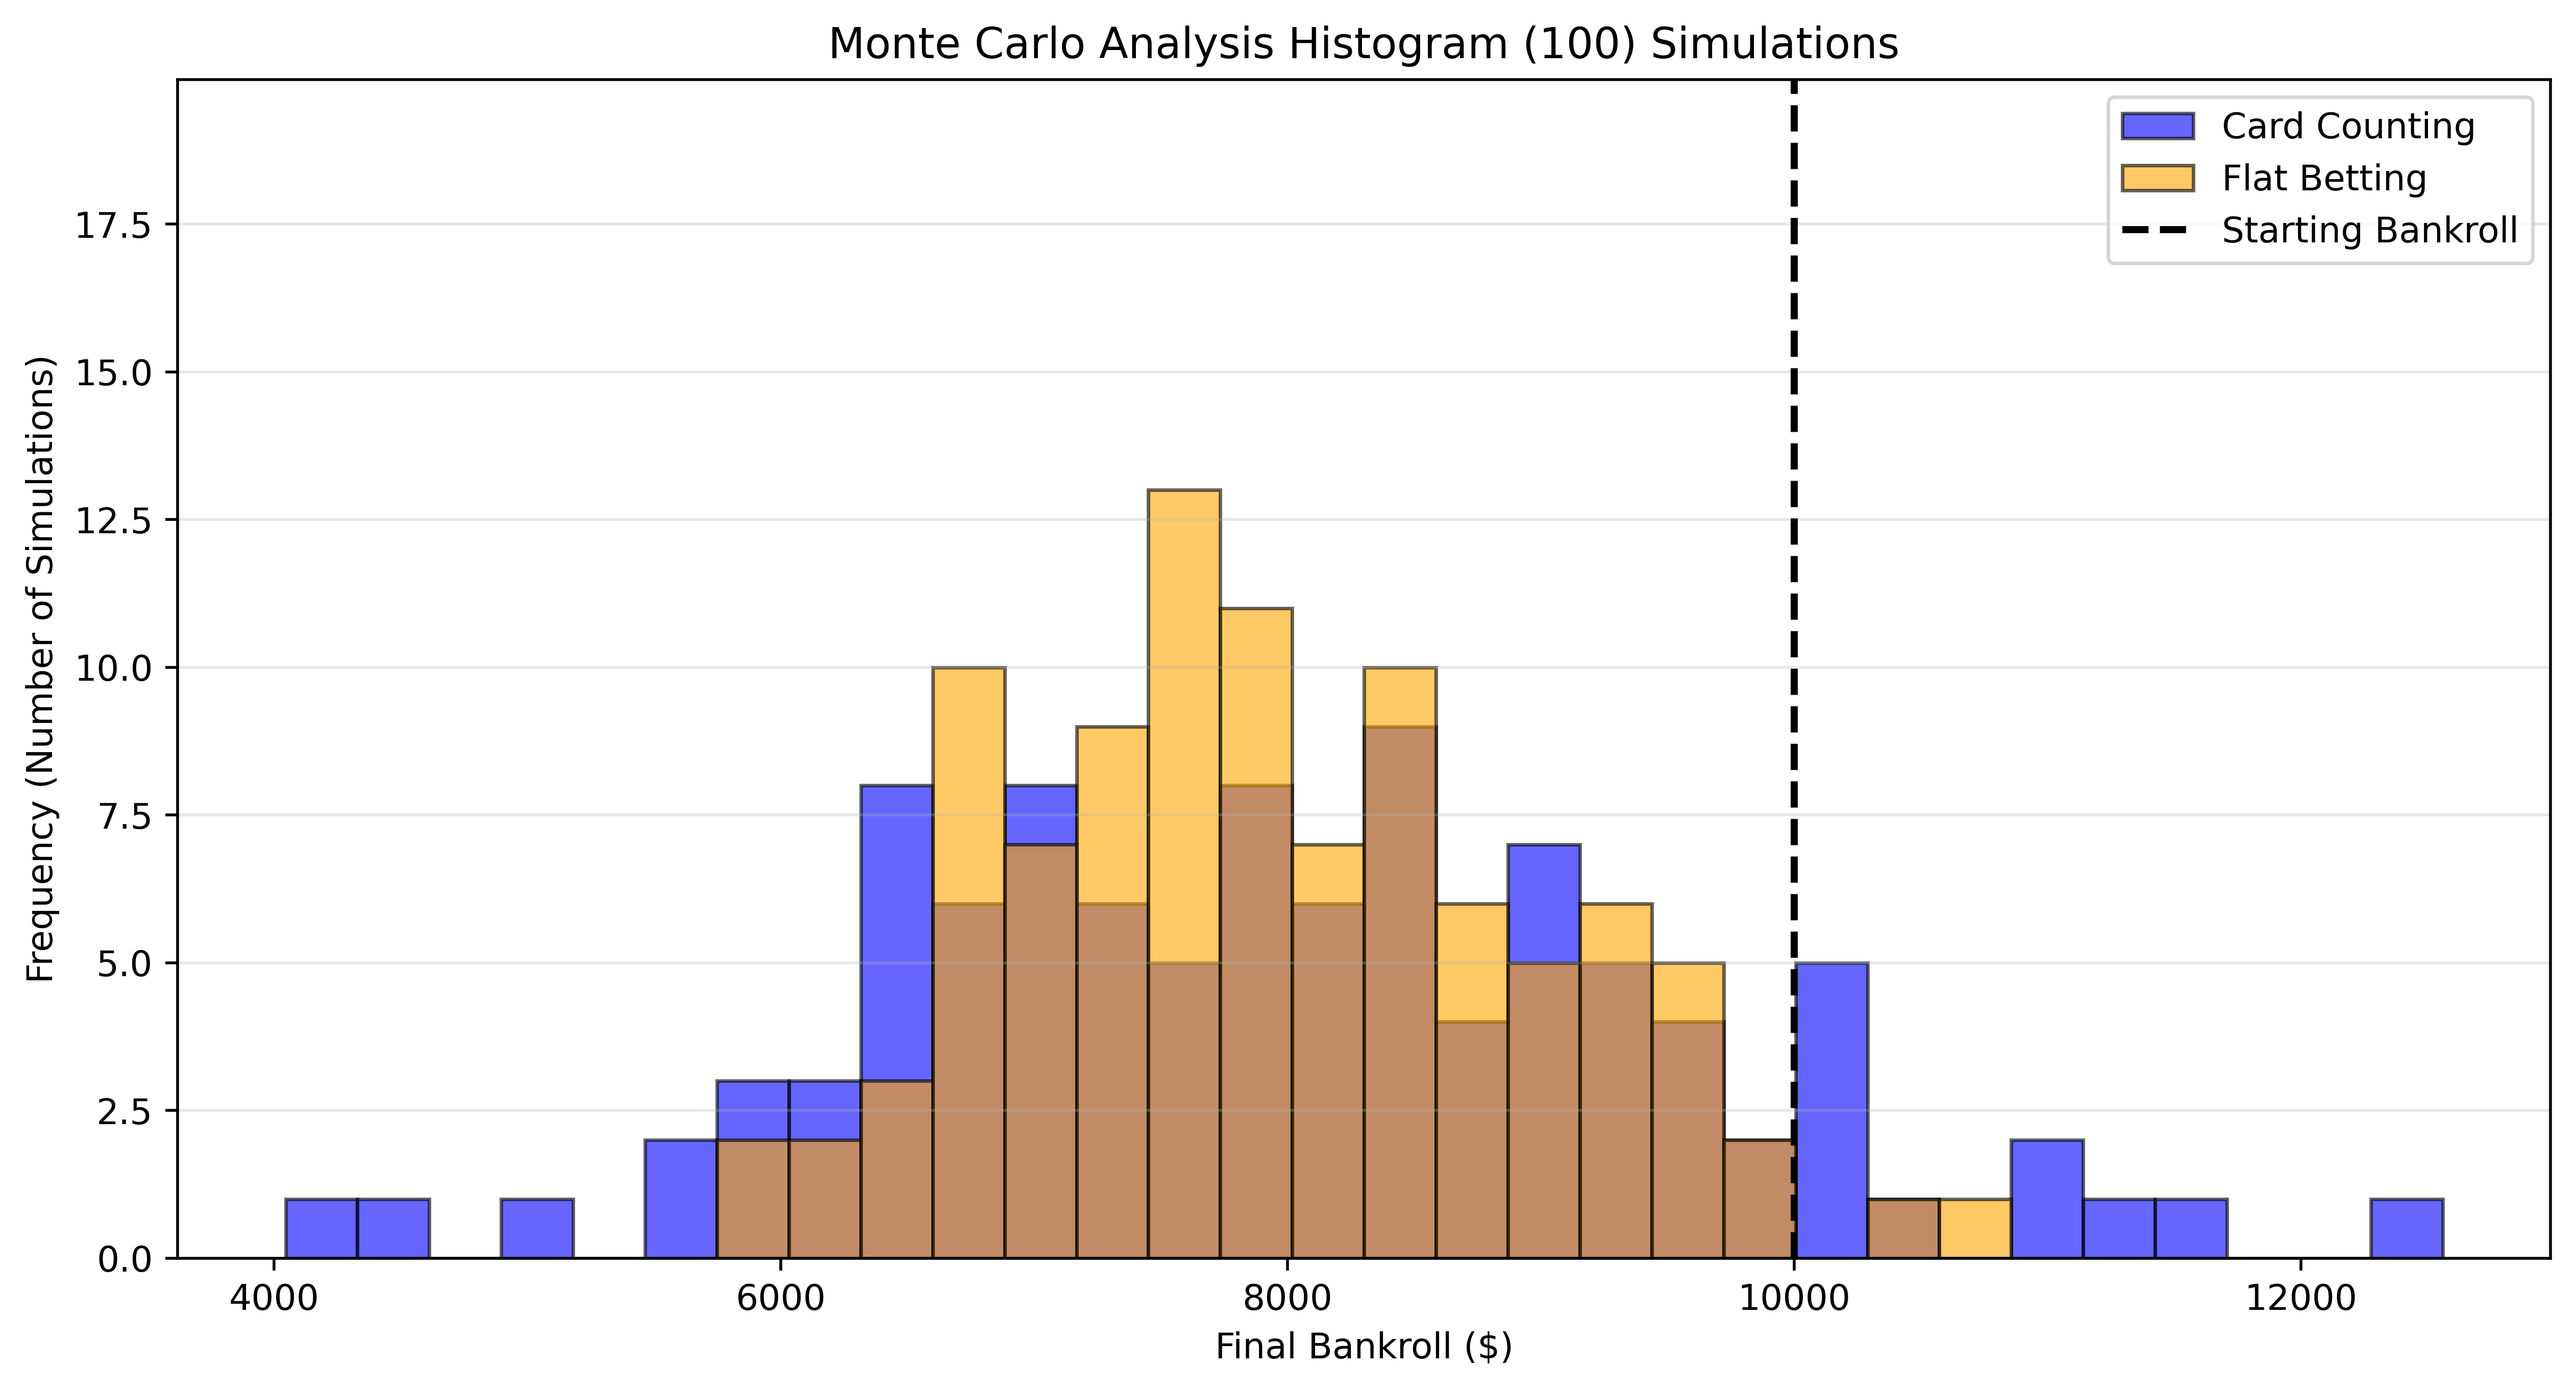
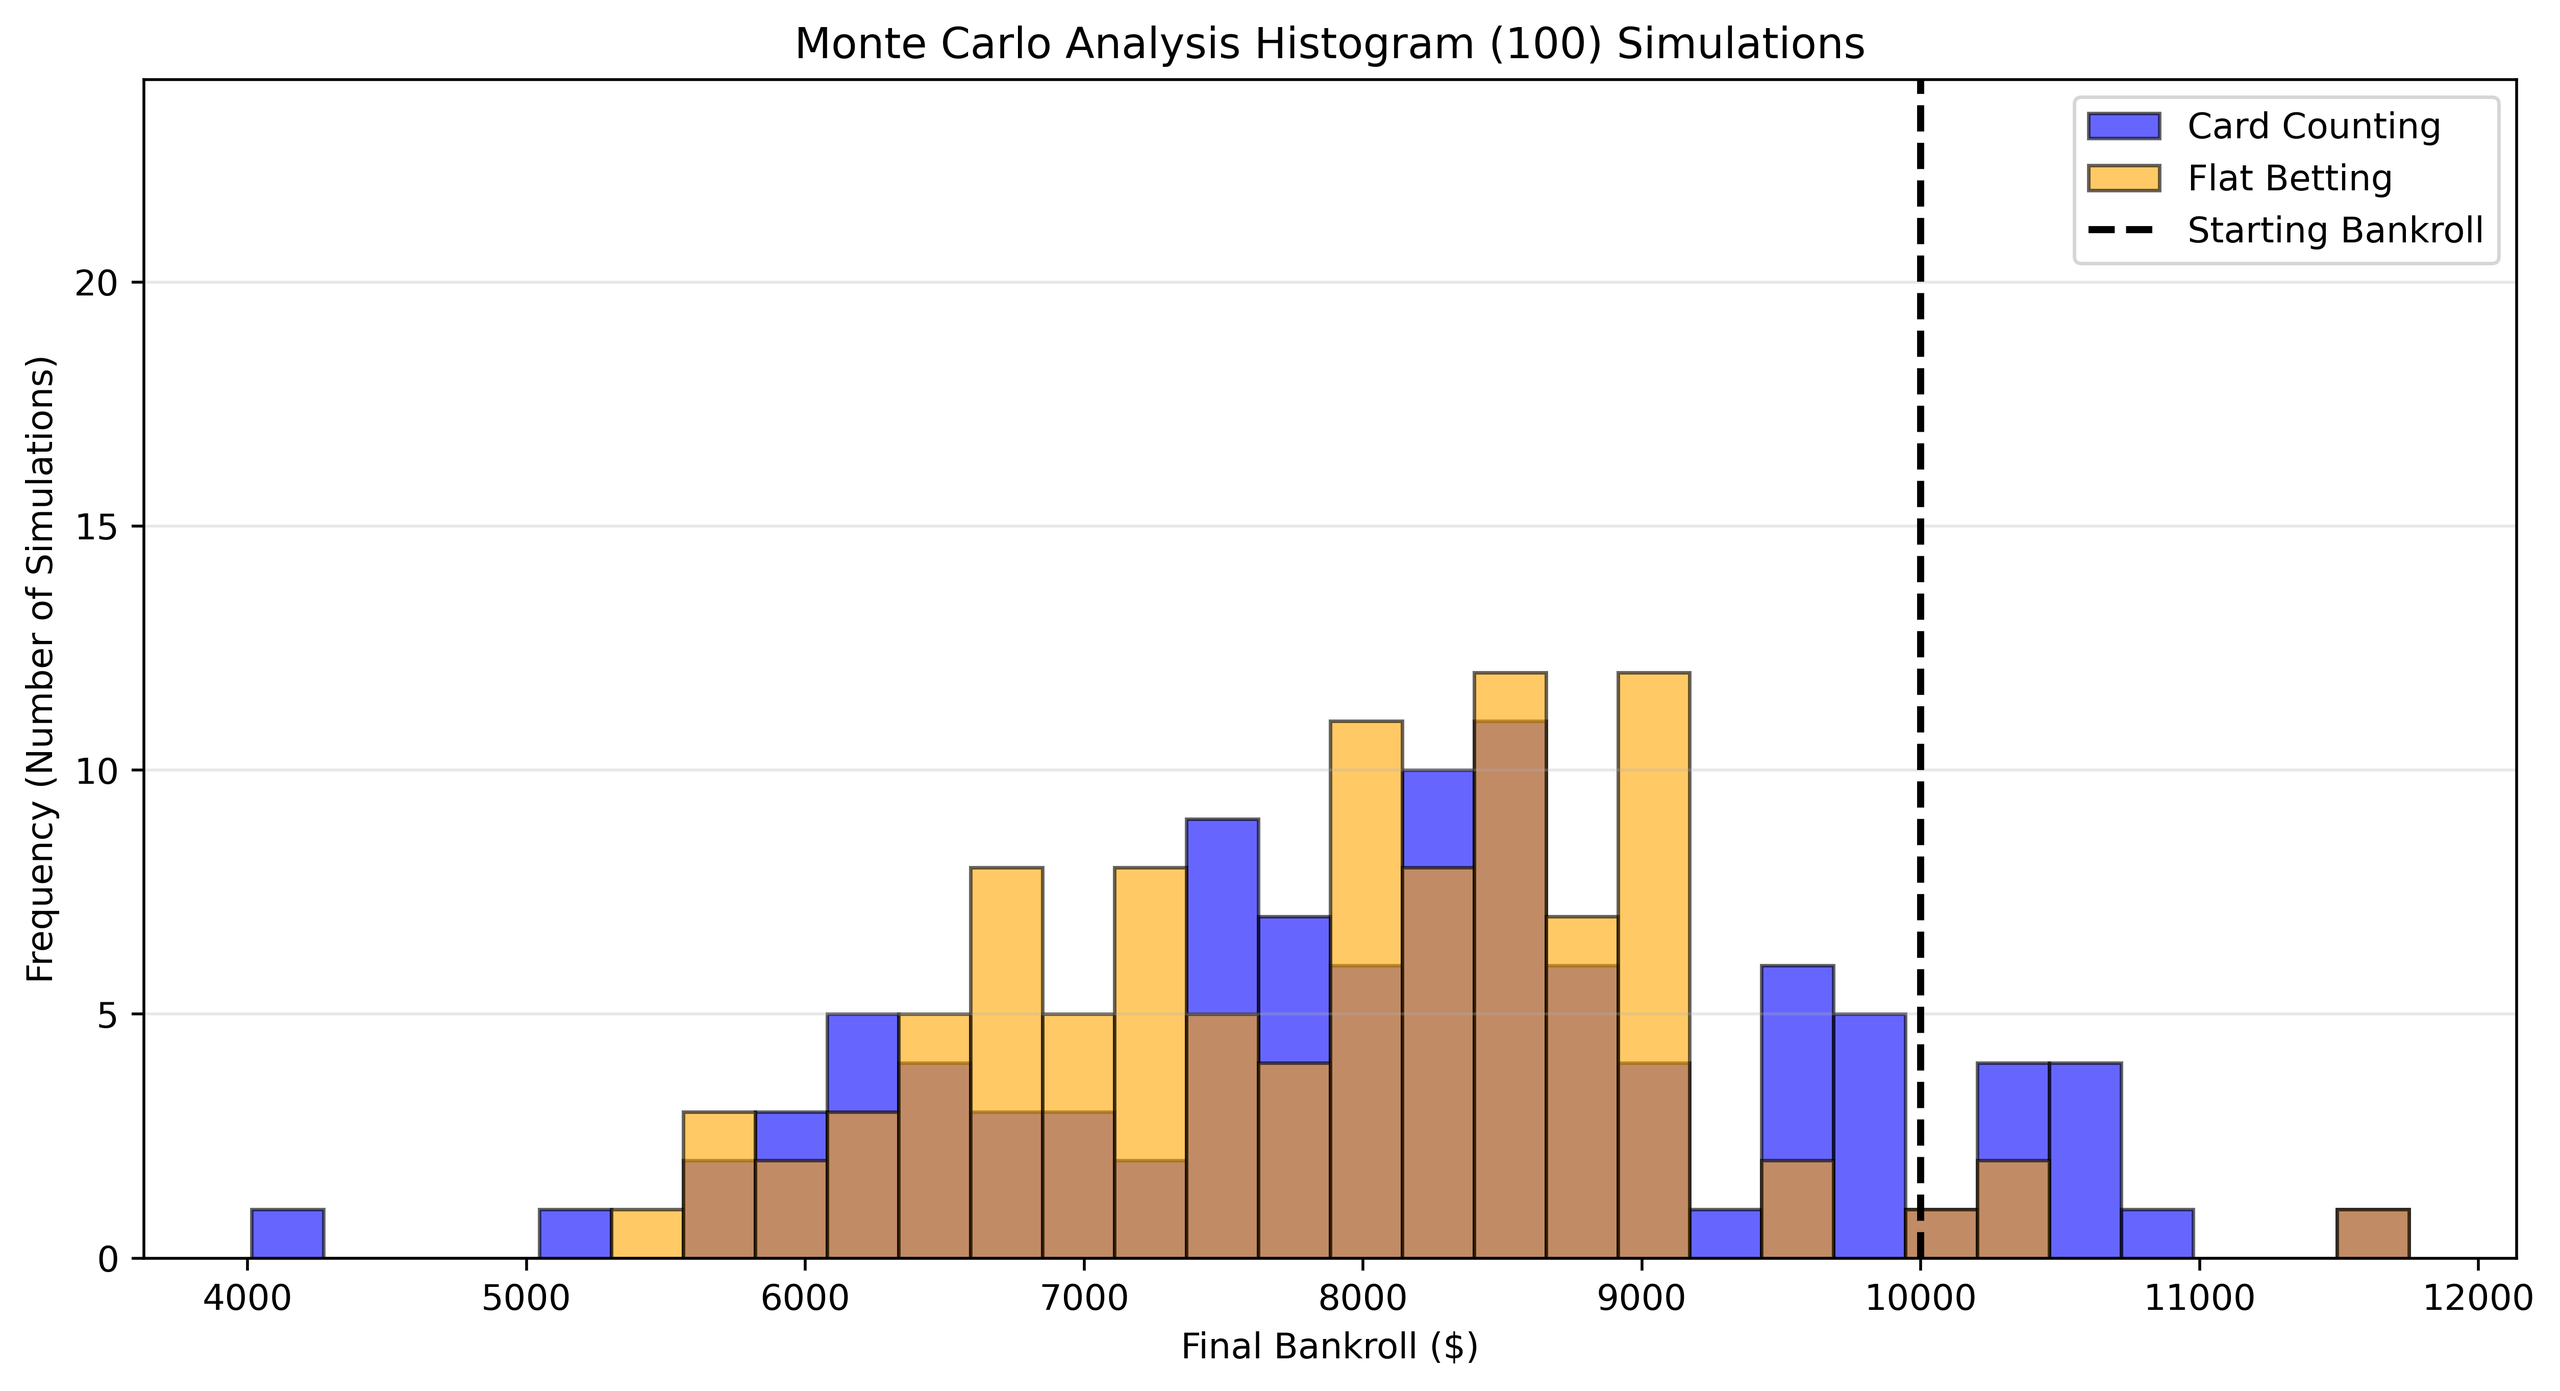
readme updated

diff --git a/Projects/Blackjack Sim/Readme.md b/Projects/Blackjack Sim/Readme.md
@@ -48,7 +48,15 @@ Even with card counting, bankroll variance is significant. The results ranged fr
 - Neutral cards (7-9): 0  
 - High cards (10-A): -1
 - True Count = Running Count ÷ Decks Remaining
-- Bet spread: 1-4 units based on true count
+
+**Dynamic Bet Sizing**:
+The bet size is recalculated before each hand based on the current true count:
+- True Count ≤ 1: $10 bet
+- True Count = 2: $20 bet
+- True Count = 3: $30 bet
+- True Count ≥ 4: $40 bet
+
+As cards are dealt and the count changes, the next hand's bet adjusts accordingly. This allows the player to bet more when the deck is favorable (high count) and less when it's unfavorable (low count).
 
 **Basic Strategy**:
 - Always hit on 11 or below
